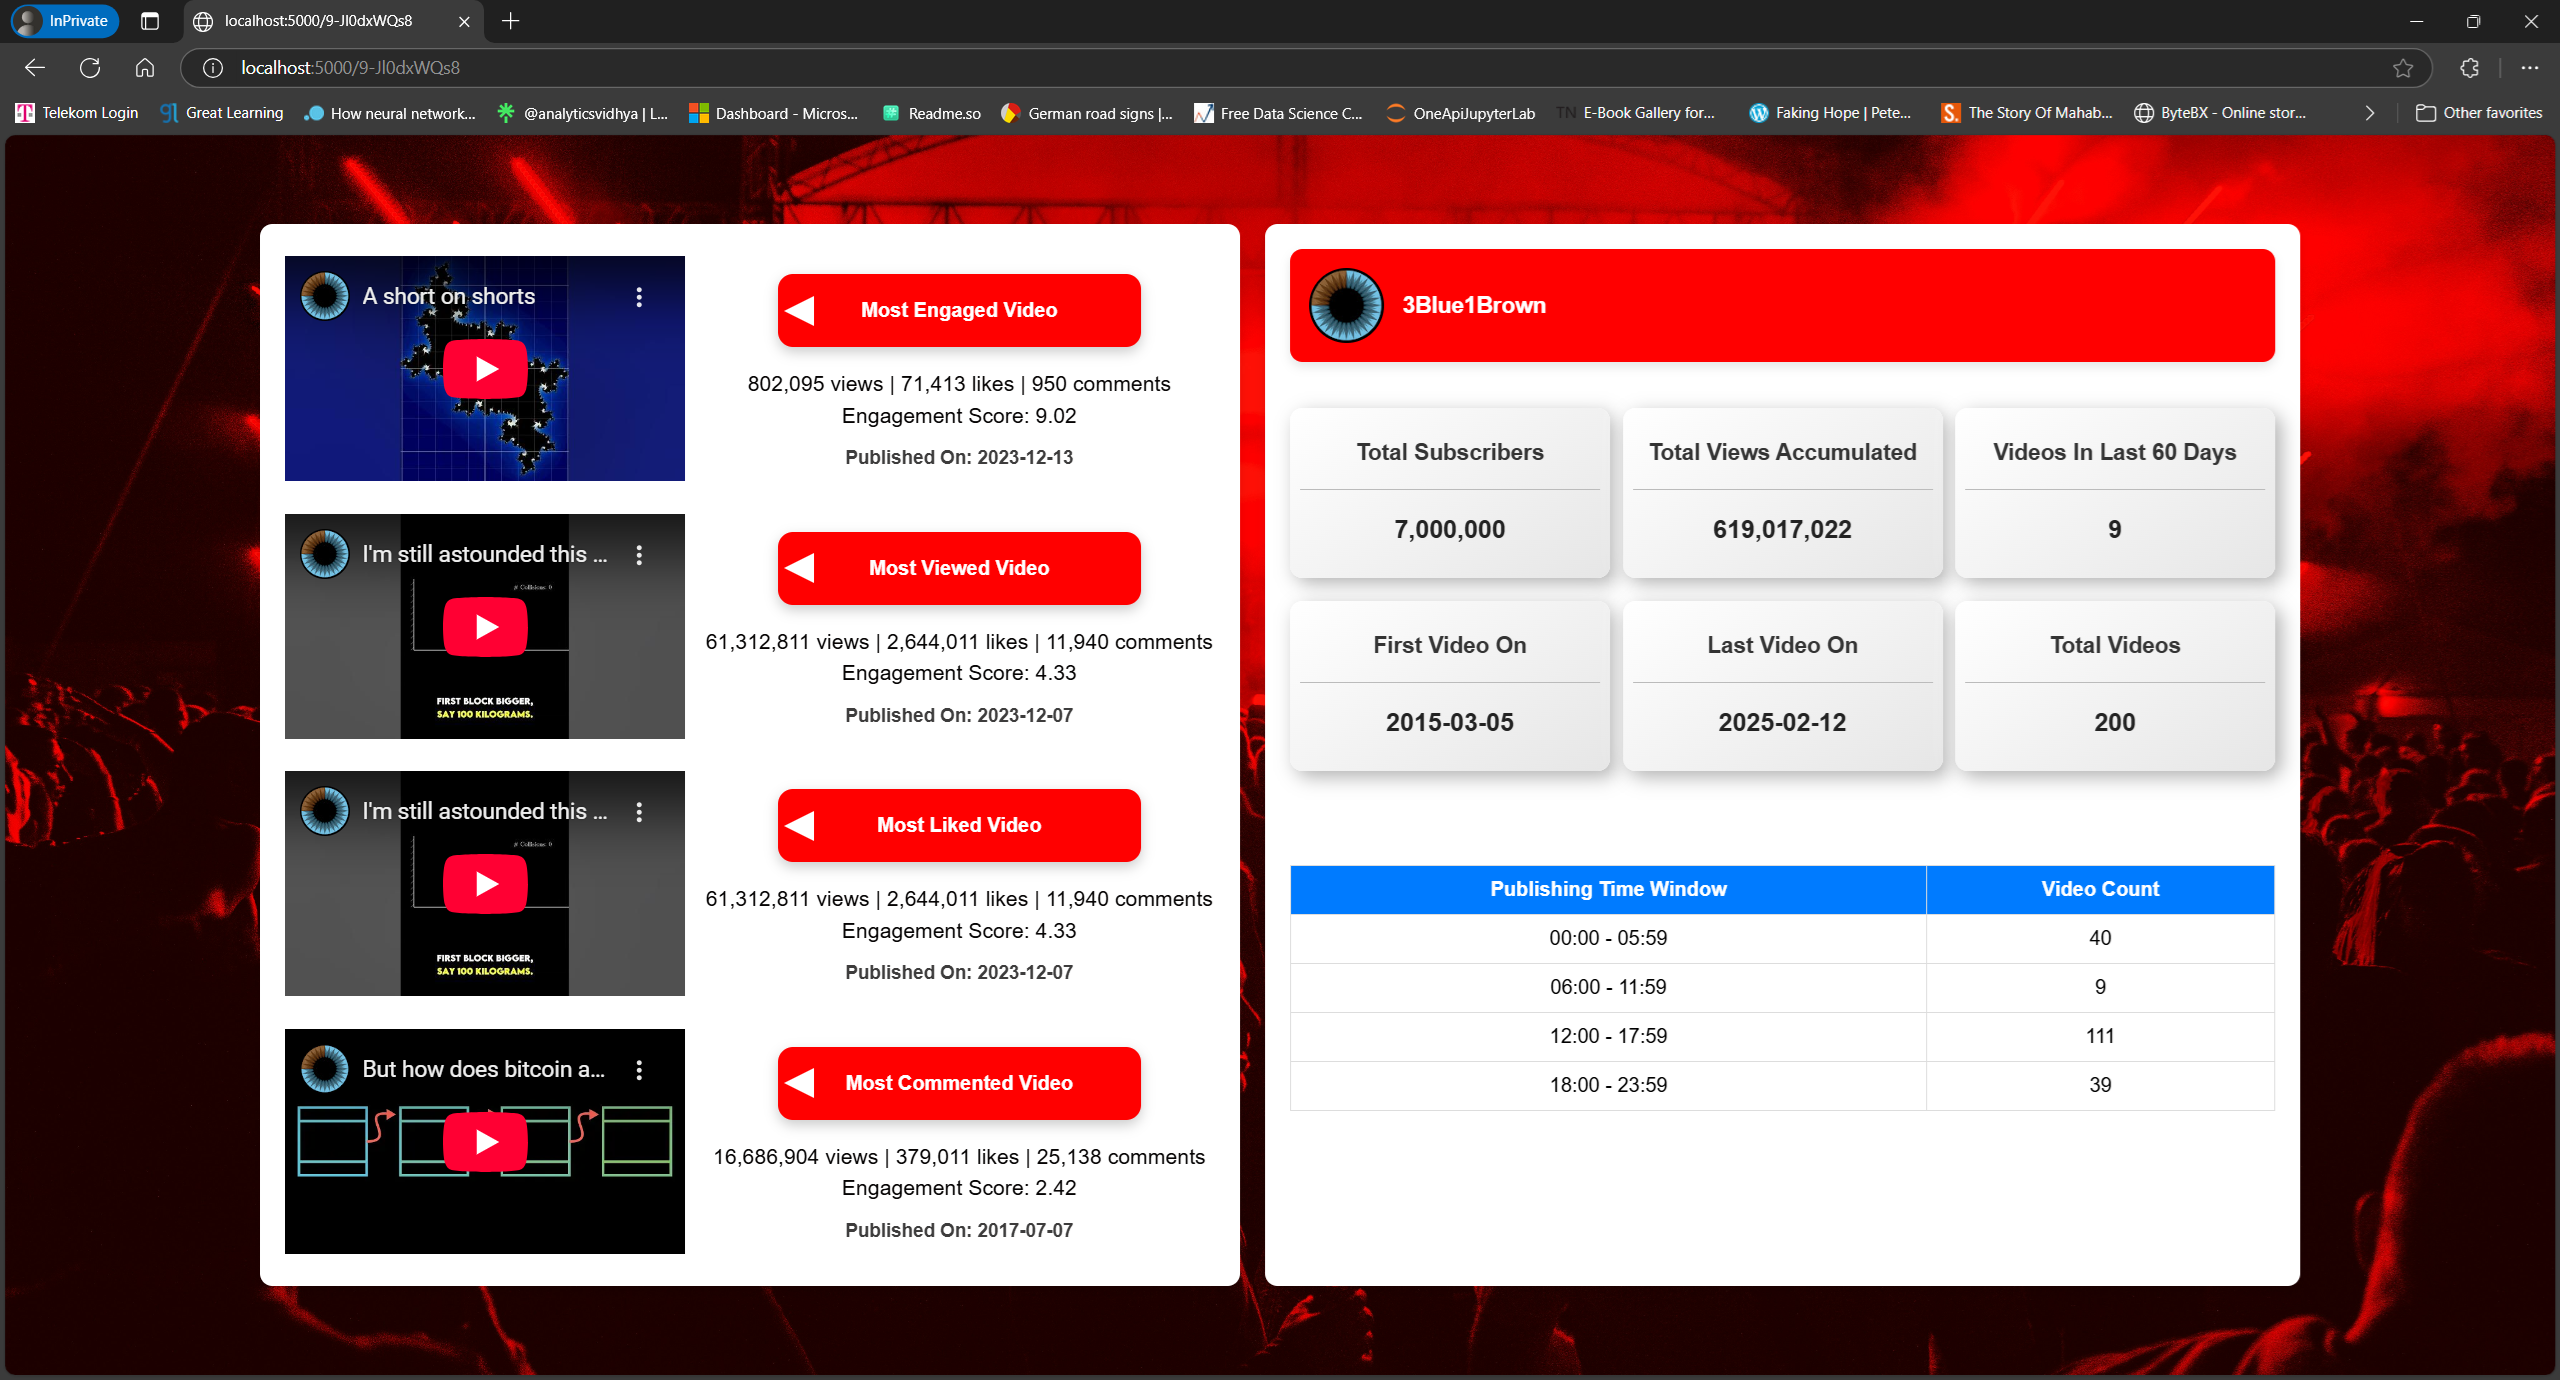
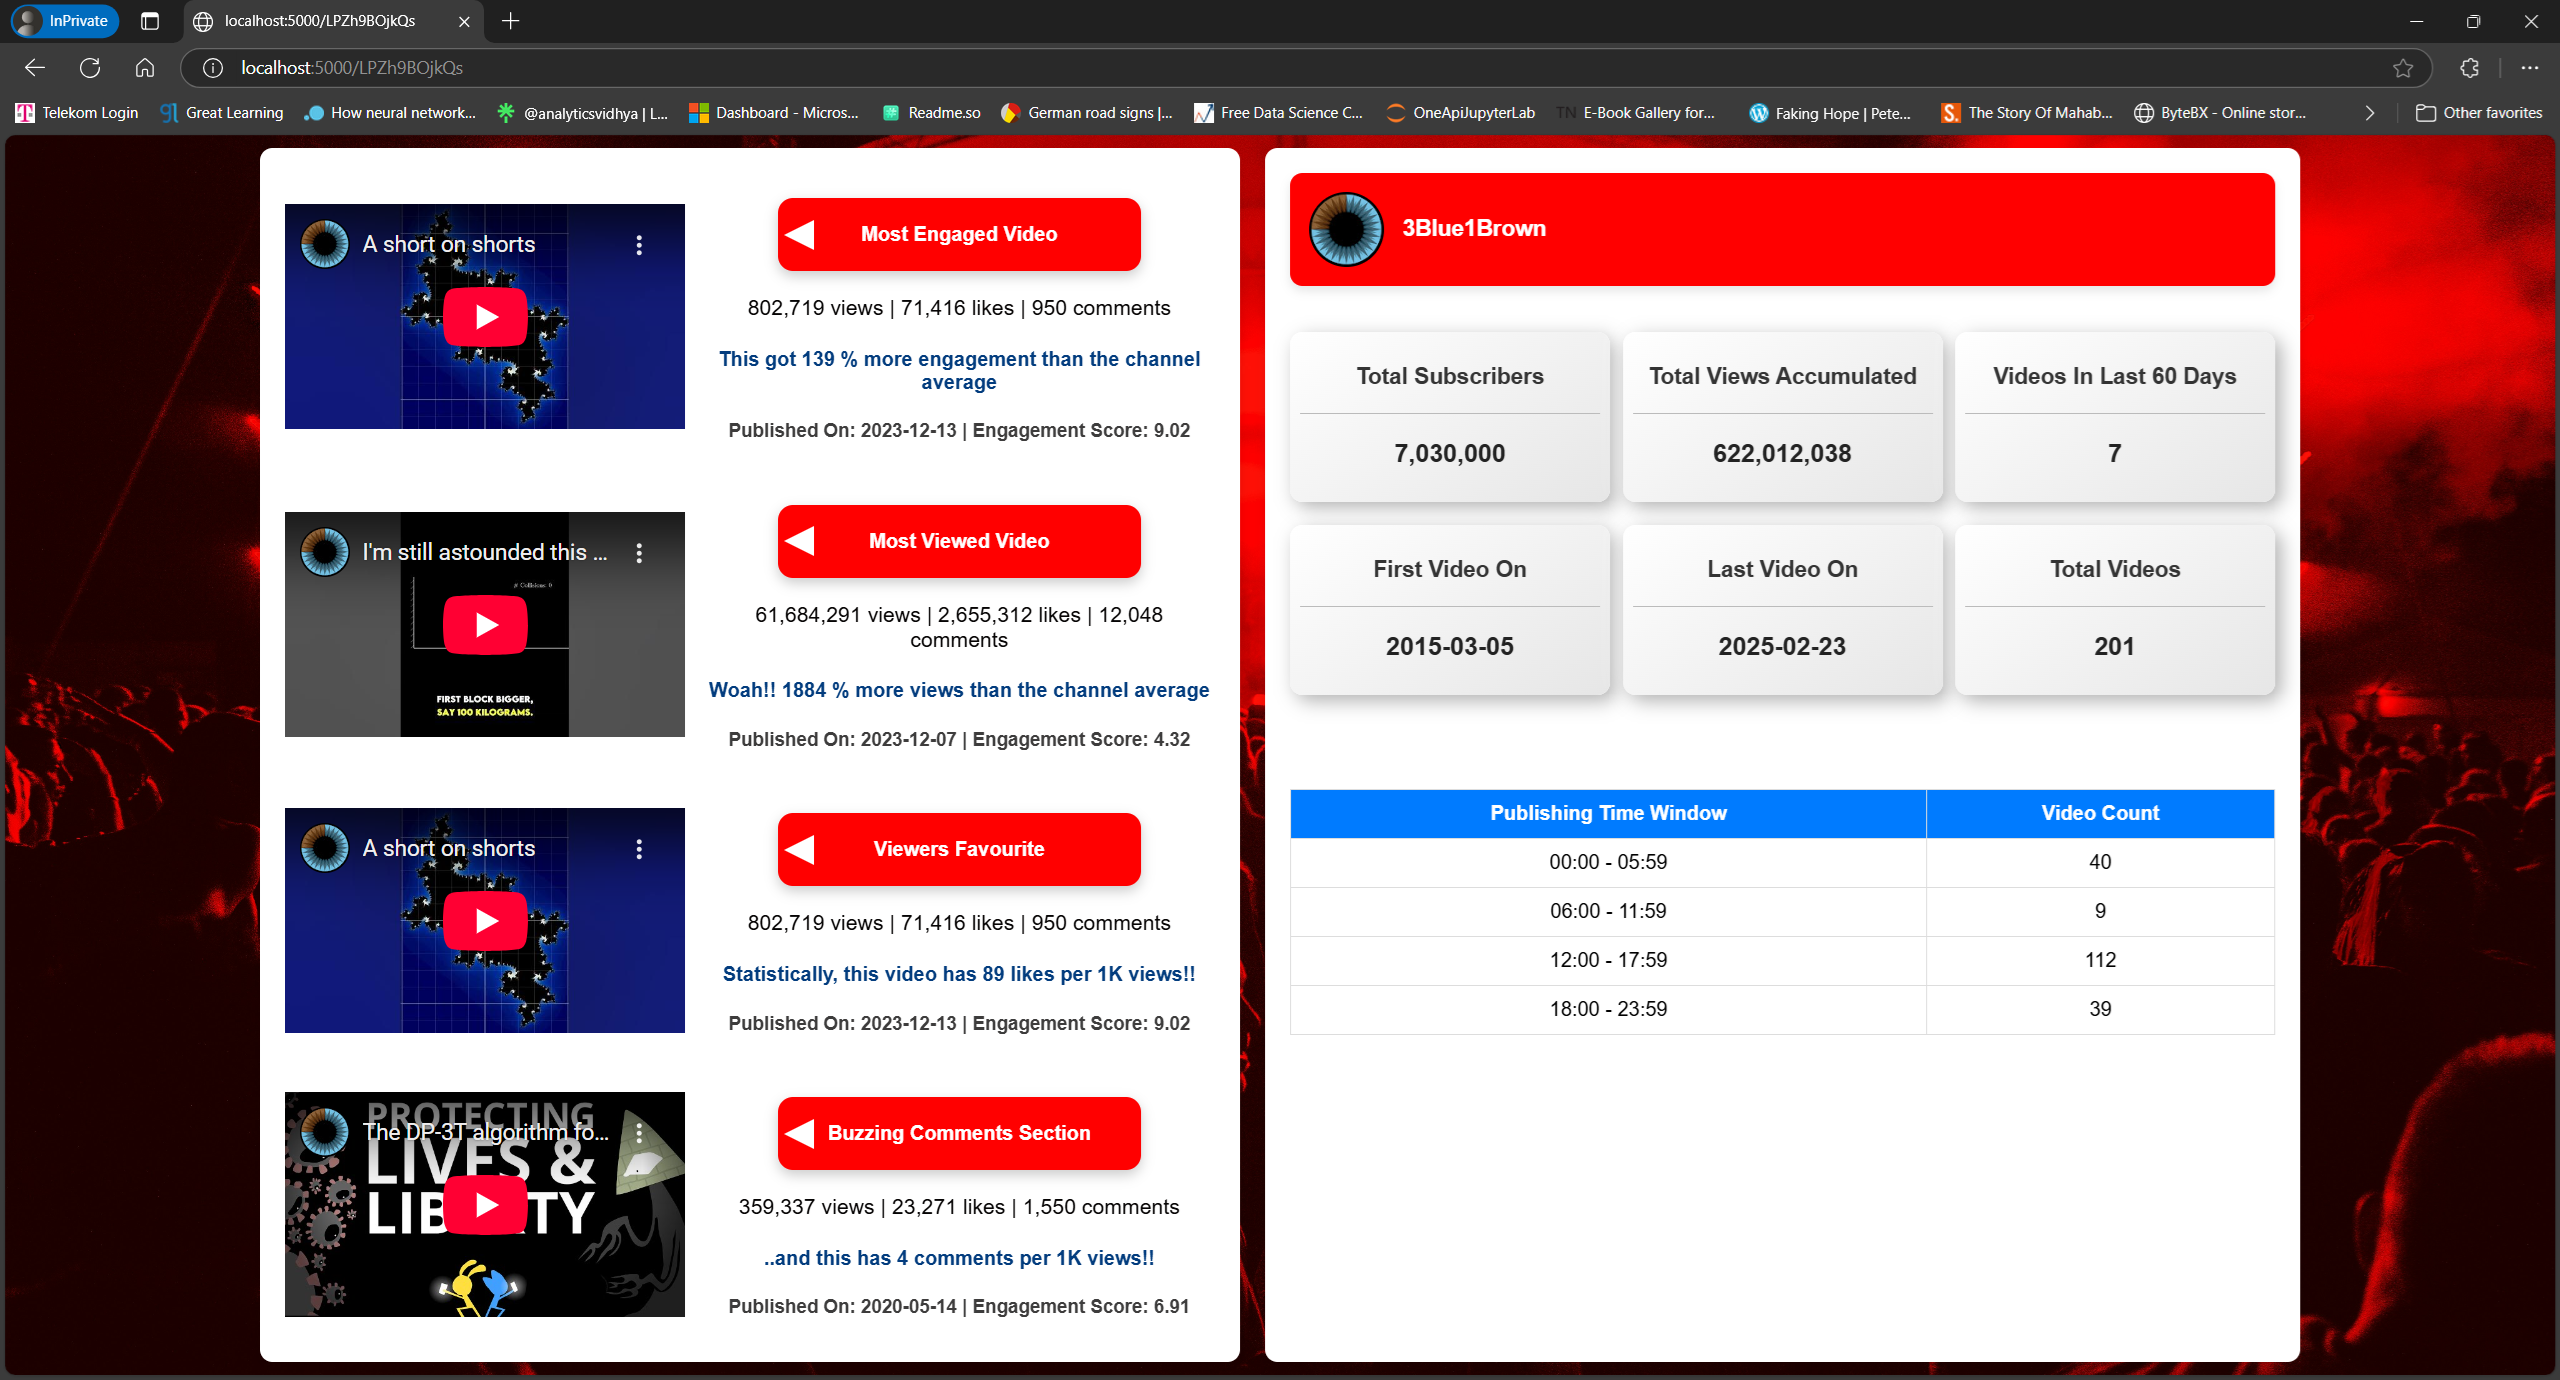
updated statistics and error handling

Changed region(s): [[0.0938, 0.0, 0.9062, 0.9971], [0.5, 0.3116, 0.9062, 0.8101]]

diff --git a/templates/display.html b/templates/display.html
@@ -13,8 +13,8 @@
                         <!-- <h2>{{ video.title }}</h2> -->                        
                         <!-- <p class="stats">{{ video.views }} views • {{ video.likes }} likes • {{ video.comments }} comments</p> -->
                         <p class="stats">{{ video.text }}</p>                        
-                        <p class="stats">{{ video.scores }}</p>                        
-                        <p class="date">Published On: {{ video.PublishedDate }}</p>
+                        <h4 class="trivia-text">{{ video.trivia_text }}</h4>                        
+                        <p class="date">Published On: {{ video.PublishedDate }} | {{ video.scores }}</p>
                     </div>
                 </div>
             {% endfor %}

diff --git a/static/styles.css b/static/styles.css
@@ -165,7 +165,11 @@ body {
     border-right: 24px solid white; /* Matches the background color */
 }
 
-
+.trivia-text {
+    /* font-size: 18px; */
+    color: #023c7e;
+    /* margin: 5px 0; */
+}
 
 .stats {
     font-size: 17px;

diff --git a/analysis.py b/analysis.py
@@ -104,11 +104,11 @@ def get_channel_stats(channel_id):
 def get_trivia(vid_stats, ch_stats):
 
     sort_order = ['00:00 - 05:59','06:00 - 11:59','12:00 - 17:59','18:00 - 23:59']
-    metrics = ['engagement_score','viewCount','likeCount','commentCount']
+    metrics = ['engagement_score','viewCount','like_view_ratio','comment_view_ratio']
     title_description = {'engagement_score': "Most Engaged Video",
                          'viewCount': "Most Viewed Video",
-                         'likeCount': "Most Liked Video",
-                         'commentCount': "Most Commented Video"
+                         'like_view_ratio': "Viewers Favourite",
+                         'comment_view_ratio': "Buzzing Comments Section"
                          }
     trivia_dict = {}
     videos_list = []
@@ -125,7 +125,7 @@ def get_trivia(vid_stats, ch_stats):
     stats_df['viewCount']=stats_df['viewCount'].replace("N/A",0).astype("uint32")
     stats_df['likeCount']=stats_df['likeCount'].replace("N/A",0).astype("uint32")
     stats_df['commentCount']=stats_df['commentCount'].replace("N/A",0).astype("uint32")
-    stats_df['comment_like_ratio']=np.divide(stats_df['commentCount'],stats_df['likeCount'])
+    stats_df['comment_view_ratio']=np.divide(stats_df['commentCount'],stats_df['viewCount'])
     stats_df['like_view_ratio']=np.divide(stats_df['likeCount'],stats_df['viewCount'])
     stats_df['engagement_score']=stats_df[['viewCount','likeCount','commentCount']].apply(lambda x: 0 if x['viewCount']==0 else round(((x['likeCount']+x['commentCount'])/x['viewCount'])*100,2), axis=1)
     stats_df['PublishedHourBin'] = pd.cut(stats_df['PublishedHour'],
@@ -133,11 +133,25 @@ def get_trivia(vid_stats, ch_stats):
                                           include_lowest=True,
                                           labels=['00:00 - 05:59','06:00 - 11:59','12:00 - 17:59','18:00 - 23:59'])
     
+    ### Publishing Window Stats
     videos_by_time = pd.DataFrame(stats_df['PublishedHourBin'].value_counts()).reset_index()
     videos_by_time.columns=['PublishedHourBin', 'counts']
     videos_by_time.index = pd.CategoricalIndex(videos_by_time['PublishedHourBin'],categories=sort_order,ordered=True)
     videos_by_time = videos_by_time.sort_index().reset_index(drop=True)
     videos_by_time_list = videos_by_time.values.tolist()
+
+    ### Trivia Messages
+    flag = (stats_df['likeCount'].sum()==0) | (stats_df['commentCount'].sum()==0) ## To Check If Video Has Enough Engagement        
+    prcntg_incr_engmnt = round(((stats_df['engagement_score'].max()-stats_df['engagement_score'].mean())/stats_df['engagement_score'].mean())*100)
+    prcntg_incr_vws = round(((stats_df['viewCount'].max()-stats_df['viewCount'].mean())/stats_df['viewCount'].mean())*100)
+    likes_per_mille = round(stats_df['like_view_ratio'].max()*1000)
+    comments_per_mille = round(stats_df['comment_view_ratio'].max()*1000)
+
+    trivia_description = {'engagement_score': f"This got {prcntg_incr_engmnt} % more engagement than the channel average",
+                         'viewCount': f"Woah!! {prcntg_incr_vws} % more views than the channel average",
+                         'like_view_ratio': f"Statistically, this video has {likes_per_mille} likes per 1K views!!",
+                         'comment_view_ratio': f"..and this has {comments_per_mille} comments per 1K views!!"
+                         }
     
     for metric in metrics:
         trivia_dict[metric] = stats_df.sort_values(by=[metric], ascending=False).head(1).to_dict('records')
@@ -166,9 +180,11 @@ def get_trivia(vid_stats, ch_stats):
                             "title":trivia_dict[key][0]['Title'],
                             "PublishedDate":trivia_dict[key][0]['PublishedDate'],
                             "id":trivia_dict[key][0]['VideoId'],
-                            "text":custom_txt, "scores":video_scores})
+                            "text":custom_txt, 
+                            "trivia_text": trivia_description.get(key, None),
+                            "scores":video_scores})
 
-    return videos_list, channel_info, videos_by_time_list
+    return flag, videos_list, channel_info, videos_by_time_list
 
 
 def run_analysis(vid:str = 'Ia8s0SCrp6Q'):
@@ -187,8 +203,10 @@ def run_analysis(vid:str = 'Ia8s0SCrp6Q'):
     
         channel_stats = get_channel_stats(channel_id)
         trivia_dict = get_trivia(video_stats, channel_stats)
-
-        return trivia_dict
+        if trivia_dict[0]:
+            raise AttributeError("Channel does not have enough content to run Analysis!!")
+        else:
+            return trivia_dict
     else:
         raise AttributeError("Invalid Video-ID. Unable to fetch channel details!!")        
 

diff --git a/app.py b/app.py
@@ -27,7 +27,7 @@ def url_submit():
 def analysis(vid):
 
 	try:
-		trivia_list, ch_stats, videos_by_time_list =run_analysis(vid)	
+		flag, trivia_list, ch_stats, videos_by_time_list =run_analysis(vid)	
 		return render_template("display.html", videos=trivia_list, ch=ch_stats, table_data=videos_by_time_list)
 	except googleapiclient.errors.HttpError as e:
 		if "quota" in str(e.reason):
